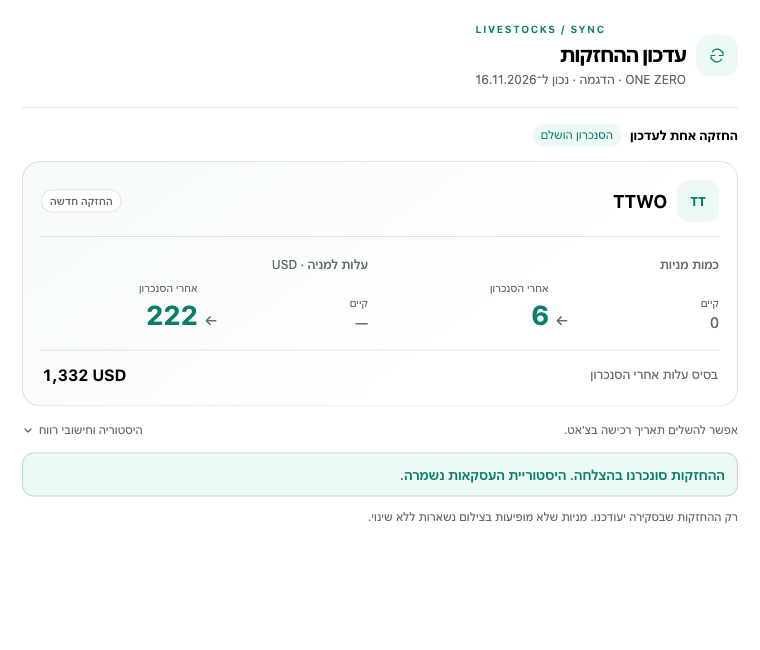
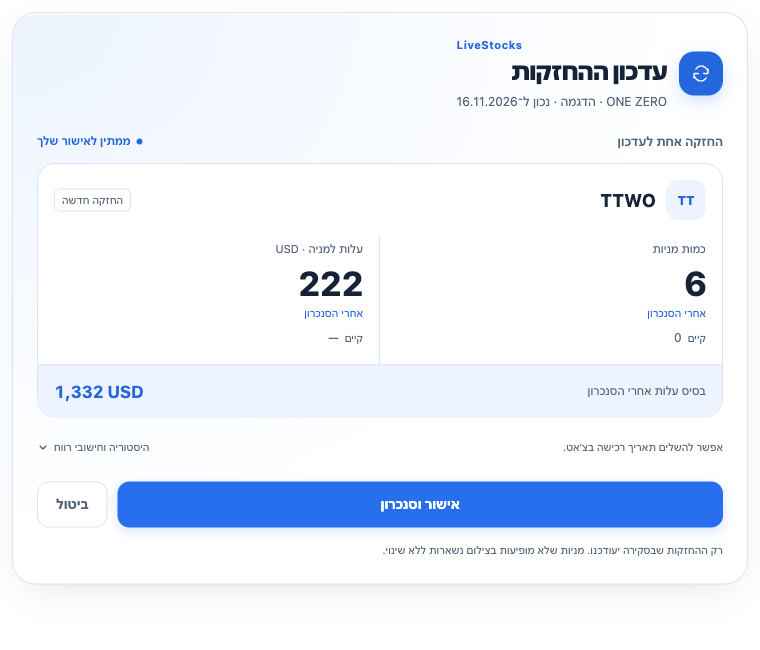
Redesign ChatGPT sync card with LiveStocks blue glass palette

diff --git a/lib/chat-sync-app.ts b/lib/chat-sync-app.ts
@@ -10,18 +10,22 @@ export const CHAT_SYNC_RESOURCE_MIME = 'text/html;profile=mcp-app';
 export const CHAT_SYNC_APP_HTML = String.raw`<!doctype html>
 <html lang="he" dir="rtl"><head><meta charset="utf-8"><meta name="viewport" content="width=device-width,initial-scale=1"><title>סקירת סנכרון LiveStocks</title>
 <style>
-:root{color-scheme:light dark;font:14px/1.5 -apple-system,BlinkMacSystemFont,"Segoe UI",sans-serif;color:var(--color-text-primary,CanvasText);background:var(--color-background-primary,Canvas);--line:var(--color-border-primary,color-mix(in srgb,CanvasText 11%,transparent));--muted:var(--color-text-secondary,color-mix(in srgb,CanvasText 56%,transparent));--soft:var(--color-background-secondary,color-mix(in srgb,CanvasText 4%,Canvas))}
-*{box-sizing:border-box}body{margin:0;padding:20px}main{max-width:760px;margin:auto}p{margin:0}.card-header{display:flex;gap:10px;align-items:center;margin-bottom:18px}.sync-icon{display:grid;place-items:center;flex:none;width:32px;height:32px;border-radius:10px;background:var(--soft);color:var(--muted)}.sync-icon svg{width:18px;height:18px}h1{font-size:17px;line-height:1.4;font-weight:650;letter-spacing:-.3px;margin:0}.muted,small{color:var(--muted)}#description{margin-top:2px;font-size:12px;line-height:1.6}.table-wrap{max-height:350px;overflow:auto;overscroll-behavior:contain;border-radius:16px}table{display:block;width:100%;border-spacing:0}.sr-only,caption{position:absolute!important;overflow:hidden;width:1px;height:1px;clip-path:inset(50%);white-space:nowrap}tbody{display:grid;gap:10px}.holding-card{display:grid;grid-template-columns:minmax(0,1fr) minmax(0,1fr);gap:18px 26px;padding:16px;border:1px solid var(--line);border-radius:16px;background:var(--color-background-primary,Canvas)}.holding-identity{grid-column:1/-1;padding:0;display:flex;align-items:center;gap:10px;min-width:0}.ticker-avatar{display:grid;place-items:center;flex:none;width:36px;height:36px;border-radius:12px;background:var(--soft);font-size:12px;letter-spacing:-.2px;font-weight:650}.ticker-info{min-width:0;flex:1}.ticker-symbol{display:block;width:fit-content;font-size:15px;font-weight:650;letter-spacing:.15px}.acquisition-date{display:block;margin-top:1px;font-size:10px;font-weight:400}.holding-kind{flex:none;padding:3px 8px;border-radius:999px;background:var(--soft);color:var(--muted);font-size:10px;font-weight:450;white-space:nowrap}.holding-stat{display:block;min-width:0;padding:0}.stat-label{display:block;color:var(--muted);font-size:11px;font-weight:450;margin-bottom:8px}.comparison{display:grid;grid-template-columns:minmax(0,1fr) 12px minmax(0,1.1fr);align-items:end;gap:8px}.comparison-value{min-width:0}.comparison-value small{display:block;font-size:10px;line-height:1.5;margin-bottom:3px;white-space:nowrap}.comparison-value bdi{display:block;direction:ltr;width:fit-content;max-width:100%;font-variant-numeric:tabular-nums;line-height:1.2;overflow-wrap:anywhere}.before bdi{font-size:16px;color:var(--muted);font-weight:450}.after bdi{font-size:24px;font-weight:650;letter-spacing:-.6px}.change-arrow{align-self:end;margin-bottom:4px;color:var(--muted);font-size:15px;line-height:1}.review-help{display:flex;justify-content:space-between;align-items:baseline;gap:5px 14px;flex-wrap:wrap;margin-top:12px}.date-note{font-size:11px;line-height:1.7}#unchanged,#blocked{font-size:12px;margin-top:10px}#blocked,#error{color:var(--color-text-danger,light-dark(#b42318,#ffb4ab))}details{font-size:11px;color:var(--muted)}summary{cursor:pointer;list-style:none;width:fit-content;display:flex;align-items:center;gap:5px;border-radius:5px;padding:2px 0}summary::-webkit-details-marker{display:none}summary svg{width:12px;height:12px;transition:transform .15s ease}details[open] summary svg{transform:rotate(180deg)}details p{font-size:12px;line-height:1.7;margin-top:6px;max-width:620px}.actions{display:flex;gap:8px;align-items:center;margin-top:18px}button{font:inherit;font-size:13px;line-height:1.4;font-weight:550;border-radius:999px;min-height:42px;padding:10px 20px;cursor:pointer;border:1px solid transparent;background:transparent;color:inherit;transition:background .15s ease,opacity .15s ease}button.primary{background:var(--color-background-inverse,light-dark(#212121,#ececec));color:var(--color-text-inverse,light-dark(#fff,#171717));min-width:160px}button.primary:hover:not(:disabled){opacity:.86}#cancel{color:var(--muted)}#cancel:hover:not(:disabled){background:var(--soft);color:var(--color-text-primary,CanvasText)}button:disabled{opacity:.4;cursor:default}button:focus-visible,summary:focus-visible{outline:2px solid var(--color-text-primary,CanvasText);outline-offset:3px}#status,#error{font-size:12px;line-height:1.7;margin-top:12px;padding:10px 12px;border-radius:12px;background:var(--soft)}#error{background:color-mix(in srgb,currentColor 7%,Canvas)}#status.success{font-weight:550;color:var(--color-text-success,light-dark(#18794e,#8dd7ad))}#privacy{display:block;font-size:10px;line-height:1.7;margin-top:11px}#unchanged:empty,#blocked:empty,#status:empty,#error:empty{display:none}[hidden]{display:none!important}
-@media(max-width:420px){body{padding:15px}h1{font-size:16px}.card-header{margin-bottom:15px}.holding-card{padding:14px;gap:16px 18px}.holding-kind{font-size:9px;padding:3px 7px}.comparison{gap:5px;grid-template-columns:minmax(0,1fr) 10px minmax(0,1.1fr)}.comparison-value small{font-size:9px}.before bdi{font-size:14px}.after bdi{font-size:21px}.change-arrow{font-size:13px}.stat-label{font-size:10px}.review-help{gap:4px}.date-note,details{font-size:10px}.actions{margin-top:16px}button.primary{flex:1;min-width:0}#cancel{min-width:72px;padding-left:15px;padding-right:15px}#privacy{font-size:10px}}
-@media(prefers-reduced-motion:reduce){button,summary svg{transition:none}}
-
-/* Clear financial hierarchy with native host themes and a restrained mint accent. */
-:root{--accent:light-dark(#087f68,#79e3c1);--accent-soft:light-dark(#edf9f4,#102a23);--muted:var(--color-text-secondary,light-dark(#61696b,#b0b9b7))}
-body{padding:22px}main{max-width:760px}.card-header{padding-bottom:18px;border-bottom:1px solid var(--line);margin-bottom:16px}.sync-icon{width:42px;height:42px;border-radius:14px;background:var(--accent-soft);color:var(--accent)}h1{font-size:20px;letter-spacing:-.5px}.eyebrow{font-size:10px;font-weight:650;letter-spacing:1.6px;color:var(--accent);margin-bottom:3px}.review-summary{display:flex;align-items:center;gap:8px;flex-wrap:wrap;margin-bottom:14px;font-size:12px}.summary-count{font-weight:650}.summary-state{padding:3px 9px;border-radius:99px;background:var(--accent-soft);color:var(--accent);font-size:11px}.holding-card{background:linear-gradient(145deg,color-mix(in srgb,var(--accent) 4%,Canvas),Canvas 65%);padding:18px;gap:18px 24px;border-radius:18px}.ticker-avatar{background:var(--accent-soft);color:var(--accent);width:42px;height:42px;font-weight:750}.ticker-symbol{font-size:18px}.holding-kind{font-size:10px;border:1px solid var(--line);background:Canvas}.holding-identity{padding-bottom:14px;border-bottom:1px solid var(--line)}.stat-label{font-size:12px}.after bdi{color:var(--accent);font-size:27px;font-weight:700}.before bdi{font-size:15px}.holding-total{grid-column:1/-1;display:flex;justify-content:space-between;align-items:center;gap:12px;border-top:1px solid var(--line);padding-top:12px;font-size:12px;color:var(--muted)}.holding-total bdi{font-size:16px;font-weight:650;color:var(--color-text-primary,CanvasText);font-variant-numeric:tabular-nums}.review-help{margin-top:14px}.actions{padding-top:15px;border-top:1px solid var(--line)}button.primary{background:#087f68;color:#fff;min-height:46px;box-shadow:0 3px 10px color-mix(in srgb,var(--accent) 10%,transparent)}button:disabled{opacity:.6}main[data-state="applied"] .actions,main[data-state="cancelled"] .actions{display:none}main[data-state="applied"] .summary-state{background:var(--accent-soft)}#status.success{border:1px solid color-mix(in srgb,var(--accent) 25%,transparent);background:var(--accent-soft);color:var(--accent);font-size:13px}#privacy{font-size:11px}details p{color:var(--muted)}
-@media(max-width:420px){body{padding:16px}h1{font-size:19px}.holding-card{padding:14px;gap:16px 14px}.comparison{grid-template-columns:minmax(0,1fr) 10px minmax(0,1.2fr)}.after bdi{font-size:24px}.holding-total{font-size:11px}.holding-total bdi{font-size:15px}.holding-kind{font-size:9px}.ticker-avatar{width:36px;height:36px}.comparison-value small{white-space:normal}.review-summary{font-size:11px}}
-@media(max-width:340px){.holding-card{grid-template-columns:1fr}.holding-identity{flex-wrap:wrap}.holding-stat{grid-column:1/-1}.comparison{grid-template-columns:1fr 16px 1fr}}
+/* Shared palette: app/globals.css Liquid Glass semantic tokens. */
+:root{color-scheme:light dark;font:14px/1.5 -apple-system,BlinkMacSystemFont,"Segoe UI",sans-serif;--surface:light-dark(#fff,#1c222d);--soft:light-dark(#f3f6fb,#222936);--ink:light-dark(#152238,#eef3fb);--muted:light-dark(#53647a,#bdc8d9);--line:light-dark(#dce4ef,#384150);--blue:light-dark(#2467dc,#78aaff);--blue-soft:light-dark(#edf4ff,#202f49);color:var(--ink);background:transparent}
+*{box-sizing:border-box}body{margin:0;padding:12px}p{margin:0}main{max-width:760px;margin:auto;padding:24px;border:1px solid var(--line);border-radius:24px;background:radial-gradient(ellipse at 0 0,light-dark(#edf4ff,#202f49),transparent 65%),var(--surface);box-shadow:0 12px 40px -18px rgb(33 60 104 / .23),inset 0 1px 0 light-dark(#fff,#384150)}
+.card-header{display:flex;align-items:center;gap:12px;margin-bottom:22px}.sync-icon{display:grid;place-items:center;width:44px;height:44px;border-radius:15px;flex:none;background:#2467dc;color:#fff;box-shadow:0 6px 16px rgb(36 103 220 / .2)}.sync-icon svg{width:21px;height:21px}.eyebrow{color:var(--blue);font-size:11px;letter-spacing:.5px;font-weight:700;margin-bottom:3px}h1{font-size:24px;line-height:1.2;letter-spacing:-.8px;margin:0;font-weight:750}#description{font-size:12px;margin-top:7px;color:var(--muted)}.muted,small{color:var(--muted)}
+.review-summary{display:flex;align-items:center;justify-content:space-between;flex-wrap:wrap;gap:8px;margin-bottom:12px}.summary-count{font-size:12px;color:var(--muted);font-weight:600}.summary-state{display:flex;align-items:center;gap:6px;font-size:11px;font-weight:600;color:var(--blue)}.summary-state:before{content:"";width:6px;height:6px;border-radius:50%;background:currentColor}
+.table-wrap{max-height:460px;overflow:auto;overscroll-behavior:contain;border-radius:18px}table{display:block;width:100%;border-spacing:0}tbody{display:grid;gap:12px}.sr-only,caption{position:absolute!important;width:1px;height:1px;overflow:hidden;clip-path:inset(50%);white-space:nowrap}
+.holding-card{display:grid;grid-template-columns:repeat(2,minmax(0,1fr));gap:0;border:1px solid var(--line);border-radius:18px;overflow:hidden;background:var(--surface)}.holding-identity{grid-column:1/-1;display:flex;align-items:center;gap:10px;padding:16px;min-width:0}.ticker-avatar{width:40px;height:40px;display:grid;place-items:center;border-radius:12px;background:var(--blue-soft);color:var(--blue);font-size:13px;font-weight:750;flex:none}.ticker-info{flex:1;min-width:0}.ticker-symbol{font-size:18px;letter-spacing:.4px;font-weight:750;overflow-wrap:anywhere}.acquisition-date{display:block;font-size:10px;margin-top:2px}.holding-kind{border:1px solid var(--line);border-radius:6px;padding:3px 7px;font-size:10px;color:var(--muted);flex:none}
+.holding-stat{display:block;padding:5px 16px 18px;min-width:0}.holding-stat+.holding-stat{border-inline-start:1px solid var(--line)}.stat-label{font-size:11px;color:var(--muted);display:block;margin-bottom:6px}.comparison{display:flex;flex-direction:column;gap:8px}.comparison-value{min-width:0}.comparison-value bdi{direction:ltr;display:inline-block;font-variant-numeric:tabular-nums;overflow-wrap:anywhere;max-width:100%}.after{order:0;display:flex;flex-direction:column;align-items:flex-start;gap:3px}.after bdi{order:0;font-size:34px;line-height:1.15;font-weight:750;letter-spacing:-1px}.after small{order:1;font-size:10px;color:var(--blue)}.before{order:1;display:flex;align-items:baseline;gap:6px}.before small{font-size:10px}.before bdi{font-size:12px;color:var(--muted)}.change-arrow{display:none}
+.holding-total{grid-column:1/-1;display:flex;align-items:center;justify-content:space-between;gap:12px;padding:13px 16px;background:var(--blue-soft);border-top:1px solid var(--line);color:var(--muted);font-size:11px}.holding-total bdi{font-size:17px;font-weight:700;color:var(--blue);font-variant-numeric:tabular-nums}
+.review-help{display:flex;justify-content:space-between;align-items:baseline;flex-wrap:wrap;gap:6px;margin-top:14px}.date-note,details{font-size:10px;color:var(--muted)}summary{cursor:pointer;display:flex;align-items:center;gap:5px;list-style:none;min-height:32px}summary::-webkit-details-marker{display:none}summary svg{width:12px;height:12px}details[open] summary svg{transform:rotate(180deg)}details p{font-size:12px;line-height:1.8;margin:6px 0;max-width:620px}
+.actions{display:flex;gap:10px;margin-top:18px;align-items:center}button{font:inherit;font-size:13px;font-weight:650;min-height:46px;border:1px solid var(--line);border-radius:12px;padding:10px 18px;cursor:pointer;background:var(--surface);color:var(--muted)}button.primary{flex:1;background:#2467dc;color:white;border-color:#2467dc;box-shadow:0 4px 12px rgb(36 103 220 / .18)}button:hover:not(:disabled){filter:brightness(1.08)}button:disabled{opacity:.5;cursor:default}button:focus-visible,summary:focus-visible{outline:2px solid var(--blue);outline-offset:3px}
+#status,#error{font-size:12px;line-height:1.8;margin-top:14px;border-radius:12px;padding:12px 14px;background:var(--soft)}#status.success{background:var(--blue-soft);color:var(--blue);border:1px solid var(--line);font-weight:600}#error,#blocked{color:light-dark(#b42318,#ffb4ab)}#unchanged,#blocked{font-size:12px;margin-top:12px}#privacy{display:block;font-size:10px;line-height:1.8;margin-top:14px;color:var(--muted)}#unchanged:empty,#blocked:empty,#status:empty,#error:empty{display:none}[hidden]{display:none!important}main[data-state="applied"] .actions,main[data-state="cancelled"] .actions{display:none}
+@media(max-width:420px){body{padding:8px}main{padding:18px;border-radius:22px}h1{font-size:22px}.holding-identity{padding:14px}.holding-stat{padding:4px 14px 16px}.after bdi{font-size:31px}.holding-total{padding:12px 14px}.holding-total bdi{font-size:16px}.card-header{margin-bottom:20px}}
+@media(max-width:340px){main{padding:14px}.holding-identity{gap:8px;flex-wrap:wrap}.holding-kind{font-size:9px}.holding-stat{padding-inline:10px}.after bdi{font-size:27px}.holding-total{flex-wrap:wrap;gap:4px}.review-summary{font-size:10px}}
 </style></head><body><main aria-label="סקירת סנכרון">
-<header class="card-header"><span class="sync-icon" aria-hidden="true"><svg viewBox="0 0 24 24" fill="none" stroke="currentColor" stroke-width="1.6" stroke-linecap="round" stroke-linejoin="round"><path d="M20 7v5h-5M4 17v-5h5"/><path d="M6.1 7a7 7 0 0 1 11.6-1L20 9M4 15l2.3 3A7 7 0 0 0 17.9 17"/></svg></span><div><p class="eyebrow" dir="ltr">LIVESTOCKS / SYNC</p><h1>עדכון ההחזקות</h1><p id="description" class="muted">טוען את ההצעה…</p></div></header>
+<header class="card-header"><span class="sync-icon" aria-hidden="true"><svg viewBox="0 0 24 24" fill="none" stroke="currentColor" stroke-width="1.6" stroke-linecap="round" stroke-linejoin="round"><path d="M20 7v5h-5M4 17v-5h5"/><path d="M6.1 7a7 7 0 0 1 11.6-1L20 9M4 15l2.3 3A7 7 0 0 0 17.9 17"/></svg></span><div><p class="eyebrow" dir="ltr">LiveStocks</p><h1>עדכון ההחזקות</h1><p id="description" class="muted">טוען את ההצעה…</p></div></header>
 <div id="review" hidden><div class="review-summary"><span id="summary-count" class="summary-count"></span><span id="summary-state" class="summary-state">ממתין לאישור שלך</span></div><div class="table-wrap"><table role="table"><caption>השינויים המוצעים</caption><thead class="sr-only" role="rowgroup"><tr role="row"><th role="columnheader" scope="col">מניה</th><th role="columnheader" scope="col">כמות מניות לפני ואחרי</th><th role="columnheader" scope="col">עלות למניה בדולר לפני ואחרי</th></tr></thead><tbody id="rows" role="rowgroup"></tbody></table></div><p id="unchanged" class="muted"></p><p id="blocked" role="alert"></p><div class="review-help"><small class="date-note">אפשר להשלים תאריך רכישה בצ׳אט.</small><details><summary>היסטוריה וחישובי רווח<svg viewBox="0 0 16 16" aria-hidden="true" fill="none" stroke="currentColor" stroke-width="1.5" stroke-linecap="round" stroke-linejoin="round"><path d="m4 6 4 4 4-4"/></svg></summary><p>בסיס העלות הוא כמות המניות כפול העלות למניה, ואינו שווי השוק הנוכחי. היתרה ובסיס העלות מתעדכנים; עסקאות העבר נשמרות. רווח ומס חסרים לא ינוחשו, ותאריך משוער נשאר מסומן כמשוער.</p></details></div></div>
 <p id="status" role="status" aria-live="polite"></p><p id="error" role="alert"></p>
 <div class="actions"><button id="confirm" class="primary" disabled>אישור וסנכרון</button><button id="cancel" disabled>ביטול</button></div>

diff --git a/README.md b/README.md
@@ -117,7 +117,7 @@
 
 <img src="docs/screenshots/chat-sync-redesign-mobile.png" alt="העיצוב החדש של סקירת הסנכרון, תצוגה מקומית עם נתוני הדגמה" width="320" />
 
-*עיצוב הכרטיס המעודכן: השוואת כמויות ועלות למניה, בסיס עלות ומצב אישור ברור. התצוגה נבדקה מקומית בנייד ובמחשב; פריסה ואימות העיצוב החדש בתוך ChatGPT טרם בוצעו.*
+*עיצוב הכרטיס המעודכן משתמש בפלטת האתר: כחול #2467dc, נייבי ומשטחי זכוכית. כמויות ועלות למניה מוצגות בגדול, הערכים הקודמים משניים ובסיס העלות מופרד בשורת סיכום. התצוגה נבדקה מקומית בנייד ובמחשב; פריסה ואימות העיצוב החדש בתוך ChatGPT טרם בוצעו.*
 
 <img src="docs/screenshots/chat-sync-chatgpt-modern.jpg" alt="כרטיס התאמת החזקות בתוך ChatGPT אמיתי עם נתונים סינתטיים" width="600" />
 
